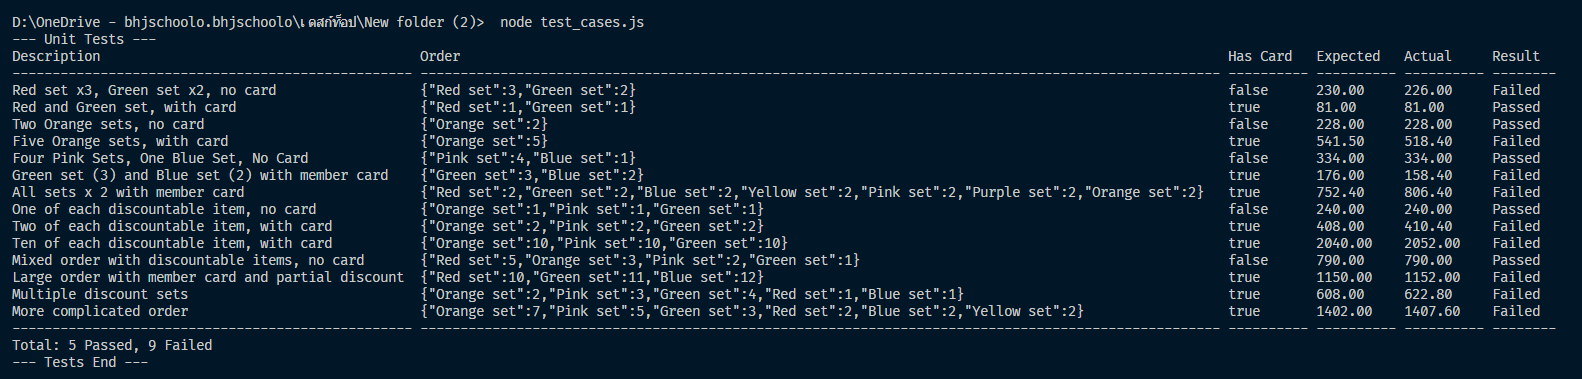
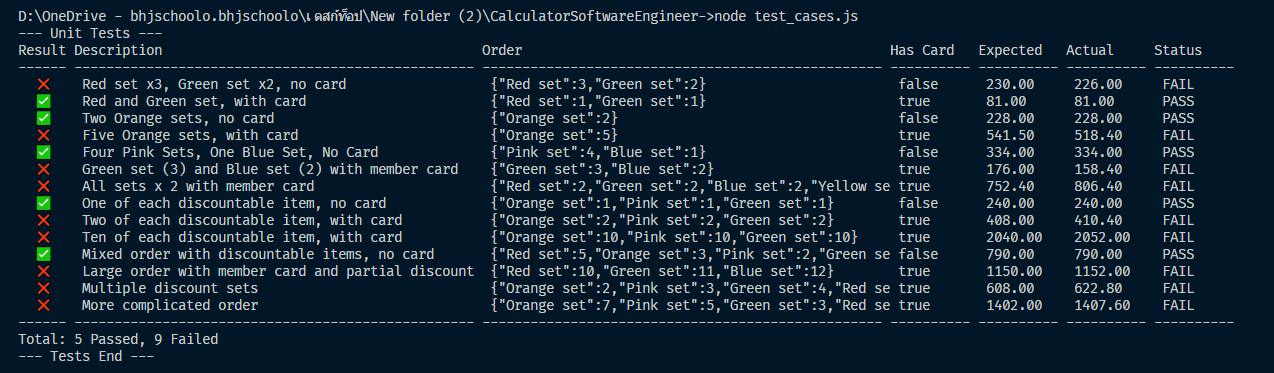
optimize

Changed region(s): [[0.0, 0.0295, 0.9796, 0.9732], [0.3673, 0.118, 0.4286, 0.1475]]

diff --git a/calculator_test.js b/calculator_test.js
@@ -16,14 +16,15 @@ class CalculatorTest {
     }
 
     const columnHeaders = [
+      "Result",
       "Description",
       "Order",
       "Has Card",
       "Expected",
       "Actual",
-      "Result",
+      "Status",
     ];
-    const columnWidths = [50, 100, 10, 10, 10, 8]; 
+    const columnWidths = [6, 50, 50, 10, 10, 10,10]; 
 
     console.log("--- Unit Tests ---");
     this.printRow(columnHeaders, columnWidths);
@@ -32,14 +33,17 @@ class CalculatorTest {
     for (const test of this.testCases) {
       try {
         const result = this.calc.calculatePrice(test.order, test.hasMemberCard);
-        const resultString = Math.abs(result - test.expected) < 0.001 ? "Passed" : "Failed";
+        const status = Math.abs(result - test.expected) < 0.001
+        const resultIcon = status ? "  ✅  " : "  ❌  ";
+        const statusString = status ? "PASS" : "FAIL";
         const row = [
+          resultIcon,
           test.description,
           JSON.stringify(test.order),
           test.hasMemberCard.toString(),
           test.expected.toFixed(2),
           result.toFixed(2),
-          resultString,
+          statusString
         ];
         this.printRow(row, columnWidths);
 
@@ -50,12 +54,12 @@ class CalculatorTest {
         }
       } catch (error) {
         const errorRow = [
+          `Error: ${error.message}`,
           test.description,
           JSON.stringify(test.order),
           test.hasMemberCard.toString(),
           "-",
           "-",
-          `Error: ${error.message}`,
         ];
         this.printRow(errorRow, columnWidths);
         failed++;
